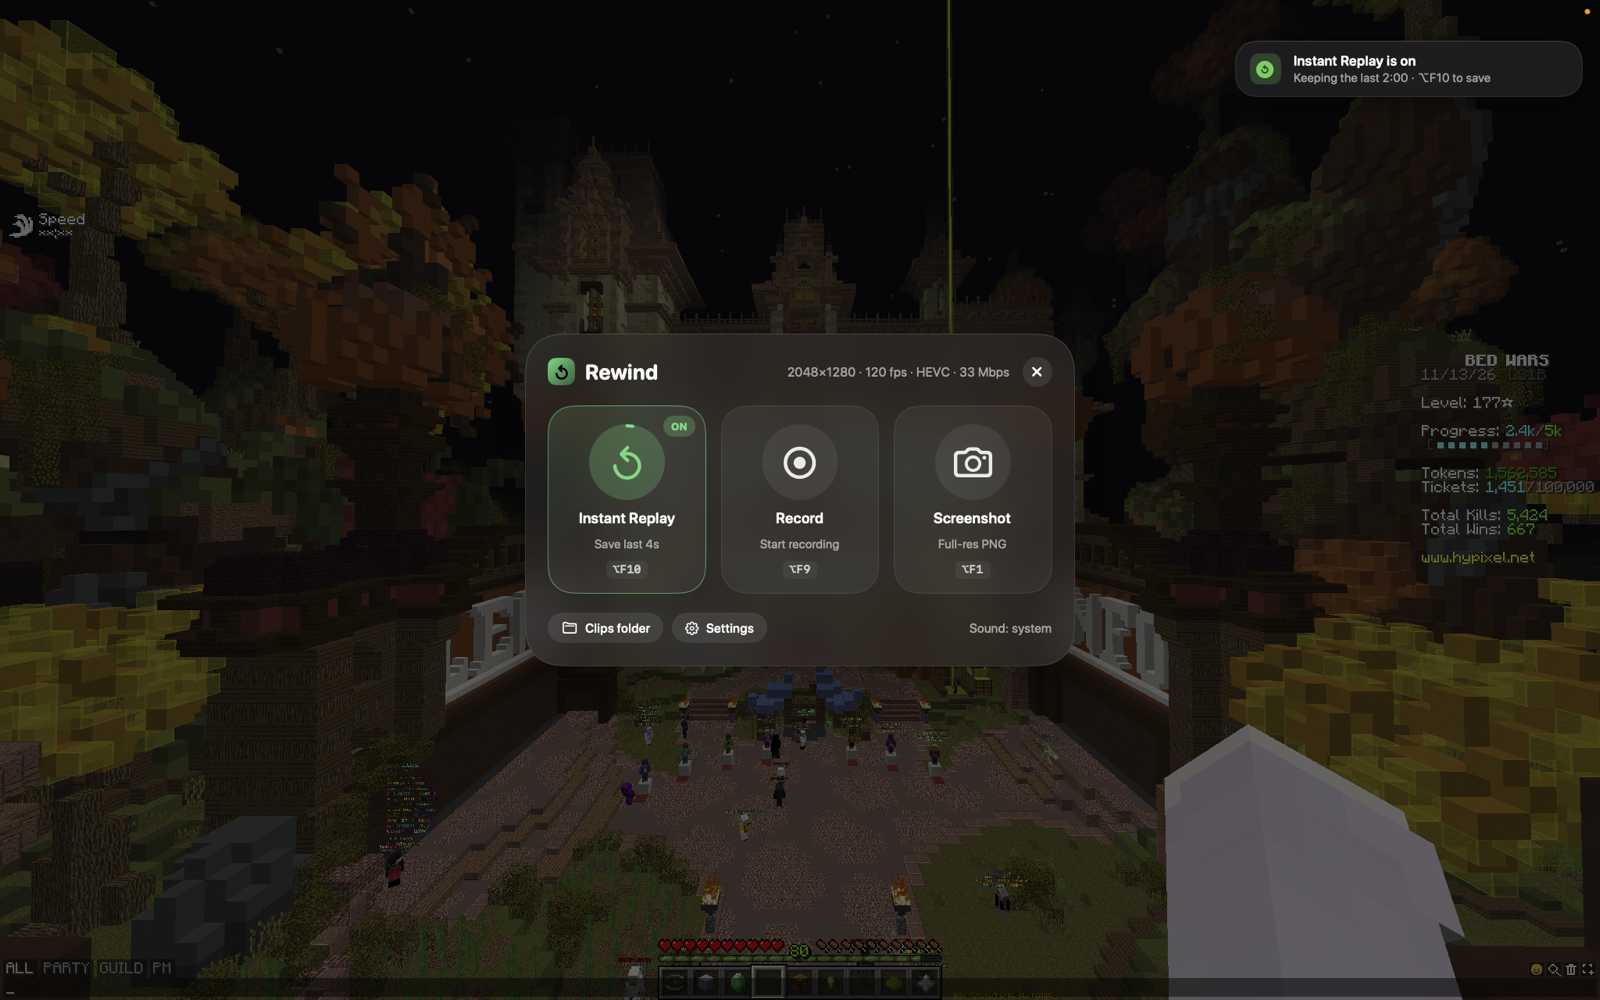
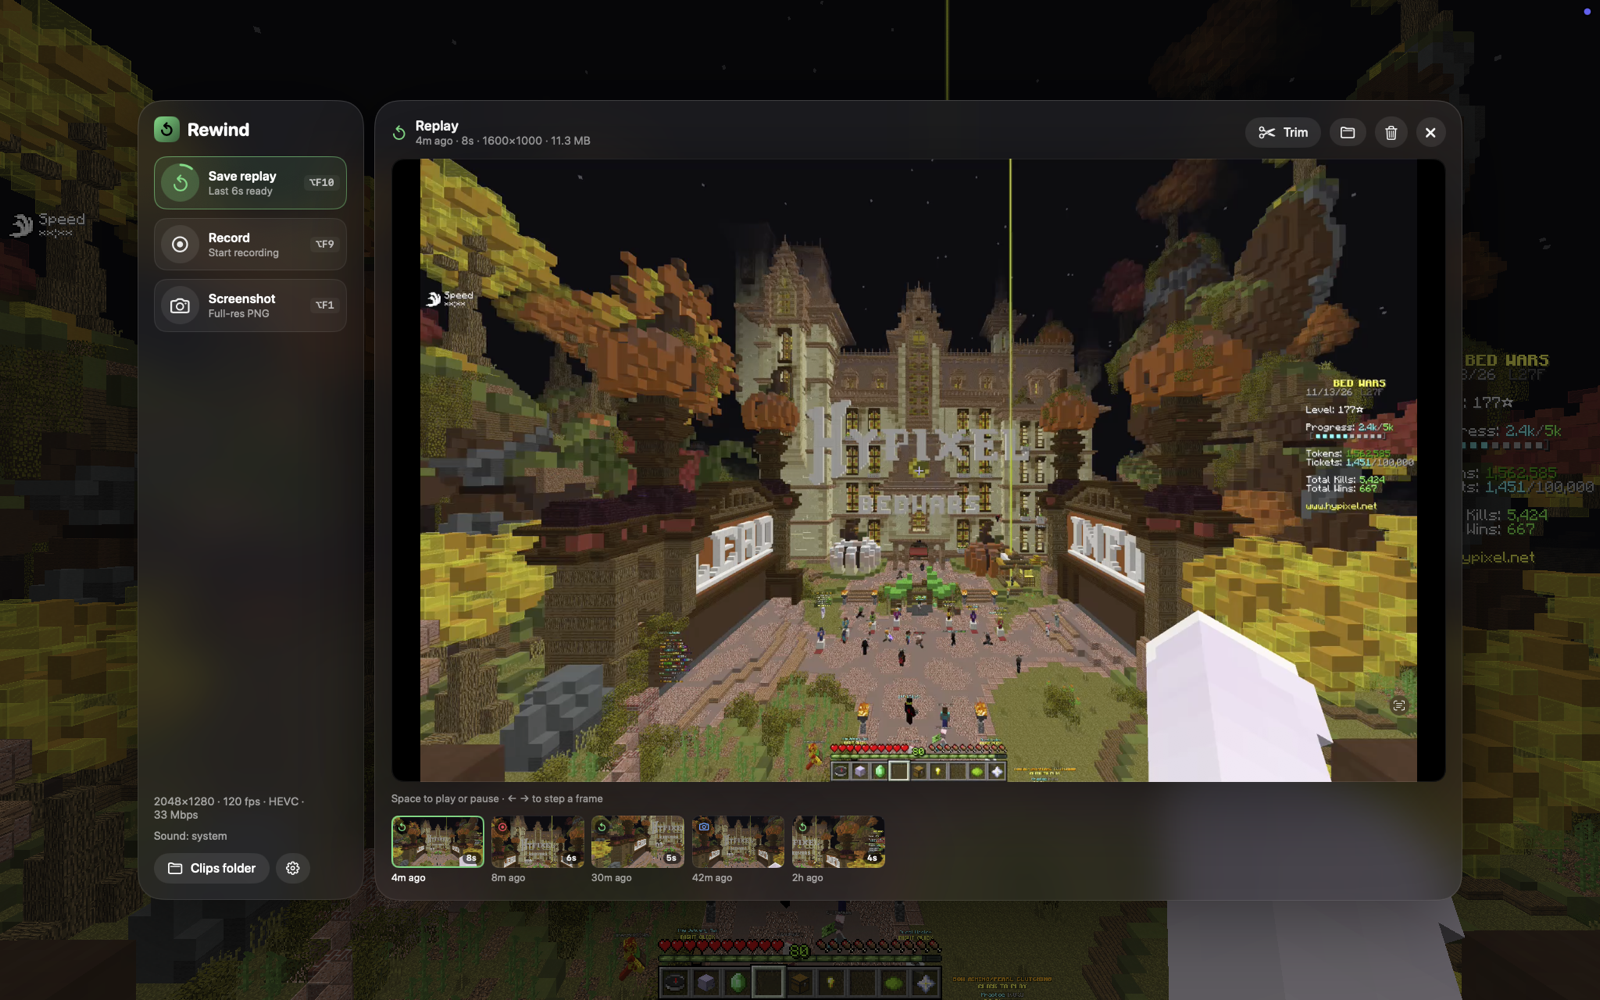
Tiles layout with a built-in player, adjustable player size, new screenshots

diff --git a/Sources/Rewind/Overlay.swift b/Sources/Rewind/Overlay.swift
@@ -65,6 +65,7 @@ final class OverlayController {
 struct OverlayView: View {
     @ObservedObject private var c = Controller.shared
     @ObservedObject private var s = Settings.shared
+    @ObservedObject private var preview = ClipPreview.shared
     let close: () -> Void
 
     @State private var gallery = false // Classic layout: clip pane shown under the bar
@@ -73,8 +74,9 @@ struct OverlayView: View {
         ZStack(alignment: s.overlayLayout == .classic ? .top : .center) {
             Color.black.opacity(Theme.dim).ignoresSafeArea().onTapGesture(perform: close)
             switch s.overlayLayout {
-            case .panes: panes
             case .classic: classic
+            case .tiles: tiles
+            case .panes: panes
             }
         }
         .environment(\.colorScheme, .dark)
@@ -89,14 +91,98 @@ struct OverlayView: View {
                     actions
                         .padding(Theme.s(16))
                         .frame(width: Theme.s(Theme.actionsWidth))
-                        .frame(maxHeight: .infinity, alignment: .top)
                         .panelSurface(radius: Theme.s(Theme.radius * 0.7))
                 }
-                ClipPane(close: close)
+                ClipPane(close: close, reservedWidth: Theme.s(Theme.actionsWidth + 10), reservedHeight: Theme.s(70))
                     .padding(Theme.s(16))
                     .panelSurface(radius: Theme.s(Theme.radius * 0.7))
             }
             .fixedSize()
+    }
+
+    // MARK: Tiles
+
+    /// Width of the three tiles side by side.
+    private let tilesWidth = Theme.s(150 * 3 + 14 * 2)
+
+    /// The original layout: one panel with three big tiles, a player with your newest clip under them,
+    /// the recent clips row and a footer.
+    private var tiles: some View {
+        VStack(alignment: .leading, spacing: Theme.s(18)) {
+            TimelineView(.periodic(from: .now, by: 1)) { _ in
+                VStack(alignment: .leading, spacing: Theme.s(18)) {
+                    tilesHeader
+                    HStack(spacing: Theme.s(14)) {
+                        replayTile
+                        recordTile
+                        screenshotTile
+                    }
+                }
+            }
+            ClipPane(close: close, fixedWidth: tilesWidth, reservedHeight: Theme.s(420), showsClose: false)
+            tilesFooter
+        }
+        .padding(Theme.s(22))
+        .fixedSize()
+        .panelSurface(radius: Theme.s(Theme.radius))
+    }
+
+    private var tilesHeader: some View {
+        HStack(spacing: Theme.s(12)) {
+            HStack(spacing: Theme.s(9)) {
+                Image(systemName: "arrow.counterclockwise")
+                    .font(.system(size: Theme.s(13), weight: .heavy))
+                    .foregroundStyle(.black)
+                    .frame(width: Theme.s(26), height: Theme.s(26))
+                    .background(RoundedRectangle(cornerRadius: Theme.s(8), style: .continuous).fill(
+                        LinearGradient(colors: [Theme.accent, Theme.accent.mix(with: .black, by: 0.45)],
+                                       startPoint: .topLeading, endPoint: .bottomTrailing)))
+                Text(Theme.brand).font(Theme.font(20, .bold))
+            }
+            if c.recording, let start = c.recordingStart {
+                RecPill(text: formatDuration(Date().timeIntervalSince(start)))
+            }
+            Spacer(minLength: Theme.s(20))
+            Text(c.isCapturing ? c.captureInfo : "Not capturing")
+                .font(Theme.font(12)).foregroundStyle(Theme.muted)
+            CircleButton(icon: "xmark", action: close).help("Close (Esc)")
+        }
+    }
+
+    private var replayTile: some View {
+        let on = c.replayActive
+        return IconTile(icon: "arrow.counterclockwise", title: Theme.replayTitle, tint: Theme.replay,
+                        badge: on ? "ON" : nil,
+                        hint: on ? s.hotkey(.saveReplay) : s.hotkey(.toggleReplay),
+                        caption: on ? "Save last \(formatDuration(c.bufferedSeconds))" : "Click to turn on",
+                        hoverCaption: on ? "Right-click to turn off" : nil,
+                        progress: on ? c.bufferedSeconds / Double(max(s.replaySeconds, 1)) : nil,
+                        action: { on ? c.saveReplay() : c.startReplay() },
+                        rightAction: { c.toggleReplay() })
+    }
+
+    private var recordTile: some View {
+        let on = c.recording
+        return IconTile(icon: on ? "stop.fill" : "record.circle", title: Theme.recordTitle, tint: Theme.record,
+                        badge: on ? "REC" : nil, hint: s.hotkey(.toggleRecording),
+                        caption: on ? "Click to stop" : "Start recording",
+                        progress: nil, action: { c.toggleRecording() }, rightAction: { c.toggleRecording() })
+    }
+
+    private var screenshotTile: some View {
+        IconTile(icon: "camera", title: Theme.screenshotTitle, tint: Theme.screenshot, badge: nil,
+                 hint: s.hotkey(.screenshot), caption: "Full-res PNG", progress: nil,
+                 flashOnTap: true, action: { c.screenshot() }, rightAction: { c.screenshot() })
+    }
+
+    private var tilesFooter: some View {
+        HStack(spacing: Theme.s(8)) {
+            Chip(title: Theme.folderLabel, icon: "folder") { close(); c.openClipsFolder() }
+            Chip(title: Theme.settingsLabel, icon: "gearshape") { close(); SettingsWindow.shared.show() }
+            Spacer()
+            Text("Sound: \(s.systemAudio ? "system" : "off")\(s.microphone ? " + mic" : "")")
+                .font(Theme.font(12)).foregroundStyle(Theme.muted)
+        }
     }
 
     // MARK: Classic
@@ -166,7 +252,7 @@ struct OverlayView: View {
                     .classicPanel()
 
                     if gallery {
-                        ClipPane(close: close)
+                        ClipPane(close: close, reservedHeight: Theme.s(300))
                             .padding(Theme.s(14))
                             .fixedSize()
                             .classicPanel()
@@ -422,6 +508,92 @@ private extension View {
     func classicPanel() -> some View {
         background(Rectangle().fill(Color.black.opacity(0.78)))
             .overlay(Rectangle().strokeBorder(Color.white.opacity(0.08)))
+    }
+}
+
+/// Big round icon button with title and hotkey hint (Tiles layout).
+private struct IconTile: View {
+    let icon: String
+    let title: String
+    let tint: Color
+    let badge: String?
+    let hint: Hotkey
+    let caption: String
+    var hoverCaption: String? = nil
+    let progress: Double?
+    var flashOnTap = false
+    let action: () -> Void
+    let rightAction: () -> Void
+
+    @State private var hover = false
+    @State private var pressed = false
+    @State private var flash = false
+
+    private var on: Bool { badge != nil }
+
+    var body: some View {
+        let shape = RoundedRectangle(cornerRadius: Theme.s(Theme.radius * 0.72), style: .continuous)
+        VStack(spacing: Theme.s(9)) {
+            ZStack {
+                Circle().fill(on ? tint.opacity(0.24) : Color.white.opacity(hover ? 0.11 : 0.07))
+                if let progress {
+                    Circle().trim(from: 0, to: min(max(progress, 0), 1))
+                        .stroke(tint, style: StrokeStyle(lineWidth: Theme.s(3), lineCap: .round))
+                        .rotationEffect(.degrees(-90))
+                        .padding(Theme.s(1.5))
+                        .animation(.linear(duration: 0.9), value: progress)
+                }
+                Image(systemName: icon)
+                    .font(.system(size: Theme.s(30), weight: .semibold))
+                    .foregroundStyle(on ? tint : .white.opacity(0.9))
+            }
+            .frame(width: Theme.s(72), height: Theme.s(72))
+            .scaleEffect(pressed ? 0.94 : (hover ? 1.04 : 1))
+
+            Text(title).font(Theme.font(14, .semibold))
+            Text(hover ? (hoverCaption ?? caption) : caption)
+                .font(Theme.font(11.5)).foregroundStyle(Theme.muted).lineLimit(1)
+
+            if Theme.showHotkeys, hint.isSet {
+                Text(hint.display)
+                    .font(Theme.mono(11))
+                    .padding(.horizontal, Theme.s(6)).padding(.vertical, Theme.s(2))
+                    .background(RoundedRectangle(cornerRadius: Theme.s(5)).fill(Color.white.opacity(0.07)))
+                    .opacity(0.75)
+            }
+        }
+        .padding(.top, Theme.s(18)).padding(.horizontal, Theme.s(12)).padding(.bottom, Theme.s(14))
+        .frame(width: Theme.s(150))
+        .background(shape.fill(
+            on ? AnyShapeStyle(LinearGradient(colors: [tint.opacity(0.16), Color.white.opacity(0.05)],
+                                              startPoint: .topLeading, endPoint: .center))
+               : AnyShapeStyle(Color.white.opacity(hover ? 0.09 : 0.05))))
+        .overlay(shape.strokeBorder(on ? tint.opacity(0.6) : Theme.line))
+        .overlay(shape.fill(Color.white.opacity(flash ? 0.25 : 0)).allowsHitTesting(false))
+        .overlay(alignment: .topTrailing) {
+            if let badge {
+                Text(badge).font(.system(size: Theme.s(10), weight: .heavy, design: .rounded))
+                    .padding(.horizontal, Theme.s(7)).padding(.vertical, Theme.s(4))
+                    .background(Capsule().fill(tint.opacity(0.25)))
+                    .foregroundStyle(tint)
+                    .padding(Theme.s(10))
+            }
+        }
+        .overlay(ClickCatcher(
+            onHover: { h in withAnimation(.easeOut(duration: 0.15)) { hover = h } },
+            onPress: { p in withAnimation(p ? .easeOut(duration: 0.08) : .spring(duration: 0.25)) { pressed = p } },
+            onLeft: { fire(action) },
+            onRight: { fire(rightAction) }))
+    }
+}
+
+extension IconTile {
+    fileprivate func fire(_ f: () -> Void) {
+        if flashOnTap {
+            flash = true
+            withAnimation(.easeOut(duration: 0.35)) { flash = false }
+        }
+        f()
     }
 }
 

diff --git a/Sources/Rewind/Clips.swift b/Sources/Rewind/Clips.swift
@@ -277,11 +277,27 @@ enum ClipTrimmer {
 /// recent clips underneath.
 struct ClipPane: View {
     let close: () -> Void
+    /// Fixed width (Tiles); nil uses Settings → Player size.
+    var fixedWidth: CGFloat? = nil
+    /// Screen space the rest of the layout takes beside / above the pane, so the pane always fits.
+    var reservedWidth: CGFloat = 0
+    var reservedHeight: CGFloat = 0
+    var showsClose = true
     @ObservedObject private var lib = ClipLibrary.shared
     @ObservedObject private var preview = ClipPreview.shared
+    @ObservedObject private var settings = Settings.shared
 
-    private let width = Theme.s(Theme.clipPaneWidth)
+    private var screen: CGSize { NSScreen.main?.visibleFrame.size ?? CGSize(width: 1440, height: 900) }
+
+    /// Player width: fixed, or from Settings, kept on screen.
+    private var width: CGFloat {
+        if let fixedWidth { return fixedWidth }
+        let room = screen.width - reservedWidth - Theme.s(90)
+        return min(Theme.s(settings.playerSize), max(room, Theme.s(Theme.playerSizeRange.lowerBound)))
+    }
     private let gap = Theme.s(7)
+    /// Thumbnails keep one size whatever the player size.
+    private let thumbW = Theme.s(88)
 
     var body: some View {
         let item = preview.item
@@ -306,7 +322,7 @@ struct ClipPane: View {
                     Chip(title: nil, icon: "folder") { let url = item.url; close(); reveal(url) }.help("Show in Finder")
                     Chip(title: nil, icon: "trash") { preview.close(); lib.trash(item) }.help("Move to Trash")
                 }
-                CircleButton(icon: "xmark", action: close).help("Close (Esc)")
+                if showsClose { CircleButton(icon: "xmark", action: close).help("Close (Esc)") }
             }
 
             ZStack {
@@ -339,9 +355,9 @@ struct ClipPane: View {
             }
 
             if !lib.items.isEmpty {
-                let thumbW = (width - gap * CGFloat(ClipLibrary.limit - 1)) / CGFloat(ClipLibrary.limit)
+                let fits = max(1, Int((width + gap) / (thumbW + gap)))
                 HStack(spacing: gap) {
-                    ForEach(lib.items) { ClipThumb(item: $0, width: thumbW, selected: $0 == item) }
+                    ForEach(lib.items.prefix(fits)) { ClipThumb(item: $0, width: thumbW, selected: $0 == item) }
                     Spacer(minLength: 0)
                 }
                 .frame(width: width, alignment: .leading)
@@ -361,8 +377,9 @@ struct ClipPane: View {
     private func mediaHeight(_ item: ClipItem?) -> CGFloat {
         let natural = item.flatMap { lib.sizes[$0.url] } ?? CGSize(width: 16, height: 9)
         let aspect = natural.width > 0 && natural.height > 0 ? natural.width / natural.height : 16 / 9
-        let screenH = NSScreen.main?.visibleFrame.height ?? 900
-        return min(max(width / aspect, width * 9 / 21), width * 3 / 4, screenH * 0.55)
+        // Room left after the rest of the layout, the pane's header, hint line and thumbnails.
+        let room = screen.height - reservedHeight - Theme.s(150) - thumbW * 9 / 16
+        return max(min(max(width / aspect, width * 9 / 21), width * 3 / 4, room), Theme.s(140))
     }
 
     private func details(_ item: ClipItem) -> String {

diff --git a/Sources/Rewind/Settings.swift b/Sources/Rewind/Settings.swift
@@ -214,6 +214,7 @@ final class Settings: ObservableObject {
         static let mixMic = "mixMicrophone"
         static let cleanup = "autoCleanup", cleanupDays = "cleanupDays"
         static let appPrefixes = "appPrefixes"
+        static let playerSize = "playerSize"
         static let layout = "overlayLayout", accent = "accentColor", dim = "overlayDim", showHotkeys = "showHotkeys"
     }
 
@@ -239,6 +240,8 @@ final class Settings: ObservableObject {
     @Published var accentHex: UInt32 { didSet { d.set(Int(accentHex), forKey: K.accent) } }
     @Published var overlayDim: Double { didSet { d.set(overlayDim, forKey: K.dim) } }
     @Published var showHotkeys: Bool { didSet { d.set(showHotkeys, forKey: K.showHotkeys) } }
+    /// Width of the Split / Gallery player, before the overlay's scale.
+    @Published var playerSize: Double { didSet { d.set(playerSize, forKey: K.playerSize) } }
 
     var accentColor: Color {
         get { Color(hex: accentHex) }
@@ -253,7 +256,7 @@ final class Settings: ObservableObject {
             K.fps: 60, K.quality: Quality.high.rawValue, K.codec: VideoCodec.h264.rawValue,
             K.resolution: 0, K.cursor: true, K.sysAudio: true, K.mic: false, K.mixMic: true,
             K.replay: 120, K.startReplay: true, K.cleanup: false, K.cleanupDays: 14,
-            K.layout: OverlayLayout.panes.rawValue, K.accent: Int(Theme.defaultAccent), K.dim: 0.6, K.showHotkeys: true,
+            K.layout: OverlayLayout.panes.rawValue, K.accent: Int(Theme.defaultAccent), K.dim: 0.6, K.showHotkeys: true, K.playerSize: Theme.defaultPlayerSize,
         ])
         displayID = UInt32(clamping: d.integer(forKey: K.display))
         captureAppID = d.string(forKey: K.appID) ?? ""
@@ -275,6 +278,7 @@ final class Settings: ObservableObject {
         accentHex = UInt32(clamping: d.integer(forKey: K.accent)) & 0xFFFFFF
         overlayDim = min(max(d.double(forKey: K.dim), 0), 0.9)
         showHotkeys = d.bool(forKey: K.showHotkeys)
+        playerSize = min(max(d.double(forKey: K.playerSize), Theme.playerSizeRange.lowerBound), Theme.playerSizeRange.upperBound)
         outputDirectory = d.string(forKey: K.output).map { URL(fileURLWithPath: $0) }
             ?? FileManager.default.urls(for: .moviesDirectory, in: .userDomainMask)[0].appendingPathComponent("Rewind")
         if let data = d.data(forKey: K.hotkeys),

diff --git a/Sources/Rewind/Theme.swift b/Sources/Rewind/Theme.swift
@@ -30,7 +30,9 @@ enum Theme {
 
     // Two-pane overlay: width of the actions pane and of the clip pane (before scaling).
     static let actionsWidth: CGFloat = 215
-    static let clipPaneWidth: CGFloat = 430
+    // Player width (before scaling) is set in Settings → Overlay → Player size; these are its range.
+    static let playerSizeRange: ClosedRange<Double> = 400...1000
+    static let defaultPlayerSize: Double = 600
 
     // Text
     static let brand = "Rewind"
@@ -68,13 +70,22 @@ extension Color {
 }
 
 /// Overlay layouts, chosen in Settings → Overlay.
+/// The raw values are what's saved; "panes" is kept for Split so existing settings carry over.
 enum OverlayLayout: String, CaseIterable, Identifiable {
-    case panes, classic
+    case classic, tiles, panes
     var id: String { rawValue }
+    var name: String {
+        switch self {
+        case .classic: "Classic"
+        case .tiles: "Tiles"
+        case .panes: "Split"
+        }
+    }
     var label: String {
         switch self {
-        case .panes: "Two panes (actions + player)"
-        case .classic: "Classic (ShadowPlay-style bar)"
+        case .classic: "Classic (ShadowPlay-style)"
+        case .tiles: "Tiles (big buttons, clips below)"
+        case .panes: "Split (actions beside a player)"
         }
     }
 }

diff --git a/Sources/Rewind/SettingsView.swift b/Sources/Rewind/SettingsView.swift
@@ -176,6 +176,15 @@ struct SettingsView: View {
                 LabeledContent("Dim the game") {
                     Slider(value: $s.overlayDim, in: 0...0.9).frame(width: 180)
                 }
+                LabeledContent("Player size") {
+                    HStack(spacing: 8) {
+                        Image(systemName: "rectangle.inset.filled").font(.caption).foregroundStyle(.secondary)
+                        Slider(value: $s.playerSize, in: Theme.playerSizeRange, step: 10).frame(width: 160)
+                        Image(systemName: "rectangle.inset.filled").font(.title3).foregroundStyle(.secondary)
+                    }
+                }
+                .disabled(s.overlayLayout == .tiles)
+                .help("Width of the player in the Split layout and Classic's Gallery")
                 Toggle("Show hotkeys in the overlay", isOn: $s.showHotkeys)
                 Button("Preview overlay") { OverlayController.shared.show() }
             } header: {

diff --git a/README.md b/README.md
@@ -4,7 +4,7 @@
 
 A ShadowPlay-style screen recorder for macOS. Rewind keeps the last few minutes of your screen in memory so you can save a clip **after** something cool happens, and it can also do regular recordings and screenshots. It's inspired by [gpu-screen-recorder](https://git.dec05eba.com/gpu-screen-recorder/about/) and its UI on Linux.
 
-![Rewind overlay over a game](docs/overlay.png)
+![Rewind overlay (Split layout) over a game](docs/overlay.png)
 
 ## Features
 
@@ -16,7 +16,7 @@ A ShadowPlay-style screen recorder for macOS. Rewind keeps the last few minutes 
 - **Audio.** System audio and/or microphone. By default your mic is mixed into the main track so clips play correctly everywhere; turn that off to keep them as separate tracks for editing.
 - **Auto-cleanup** (optional, off by default). Moves clips and screenshots older than a set number of days (14 by default) to the Trash. Only Rewind's own files are touched.
 - **Preview clips in the overlay.** Your newest clip is loaded in the overlay's player as soon as it opens, with the latest clips and screenshots as thumbnails under it. Click one to play it right in the overlay (Space plays or pauses, ← → step a frame), show it in Finder, or move it to the Trash. Clicking a "saved" notice opens the clip there too.
-- **In-game overlay** (⌥Z) with two layouts: two panes (actions beside a player showing your newest clip) or a Classic ShadowPlay-style bar with a Gallery drop-down. Pick the accent color from presets or the color wheel in Settings → Overlay. Works over fullscreen apps. Rewind's own windows never appear in your clips.
+- **In-game overlay** (⌥Z) with three layouts: **Classic** (ShadowPlay-style), **Tiles** (big buttons with your clips below) and **Split** (actions beside a player showing your newest clip). Pick the accent color from presets or the color wheel in Settings → Overlay. Works over fullscreen apps. Rewind's own windows never appear in your clips.
 - **Global hotkeys** that work while a game has focus, and can be changed in Settings.
 
 <p>
